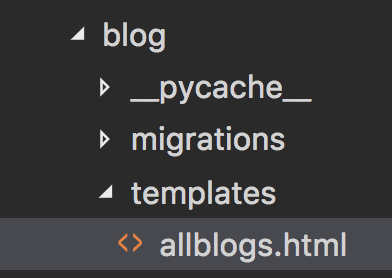
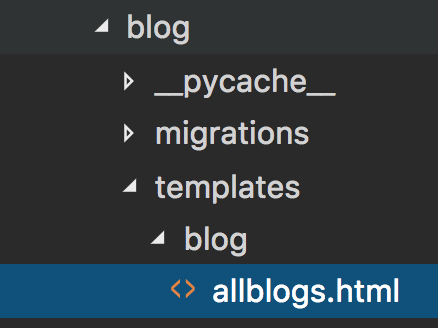
resources

diff --git a/portfolio-project/blog/templates/blog/allblogs.html b/portfolio-project/blog/templates/blog/allblogs.html
@@ -1,0 +1,1 @@
+hixs

diff --git a/portfolio-project/blog/views.py b/portfolio-project/blog/views.py
@@ -1,8 +1,7 @@
 from django.shortcuts import render
-
 from .models import Blog
 
 def allblogs(request):
-    blogs = Blog.objects
-    return render(request, 'blog/allblogs.html', {'blogs':blogs})
+    # blogs = Blog.objects
+    return render(request, 'blog/allblogs.html')
 

diff --git a/portfolio-project/portfolio/urls.py b/portfolio-project/portfolio/urls.py
@@ -7,4 +7,5 @@ import jobs.views
 urlpatterns = [
     path('admin/', admin.site.urls),
     path('', jobs.views.home, name='home-page'),
+    path('blog/', include('blog.urls')),
 ] + static(settings.MEDIA_URL, document_root=settings.MEDIA_ROOT)

diff --git a/portfolio-project/blog/urls.py b/portfolio-project/blog/urls.py
@@ -1,0 +1,6 @@
+from django.urls import path
+from . import views
+
+urlpatterns = [
+    path('', views.allblogs, name='blog-page'),
+]
